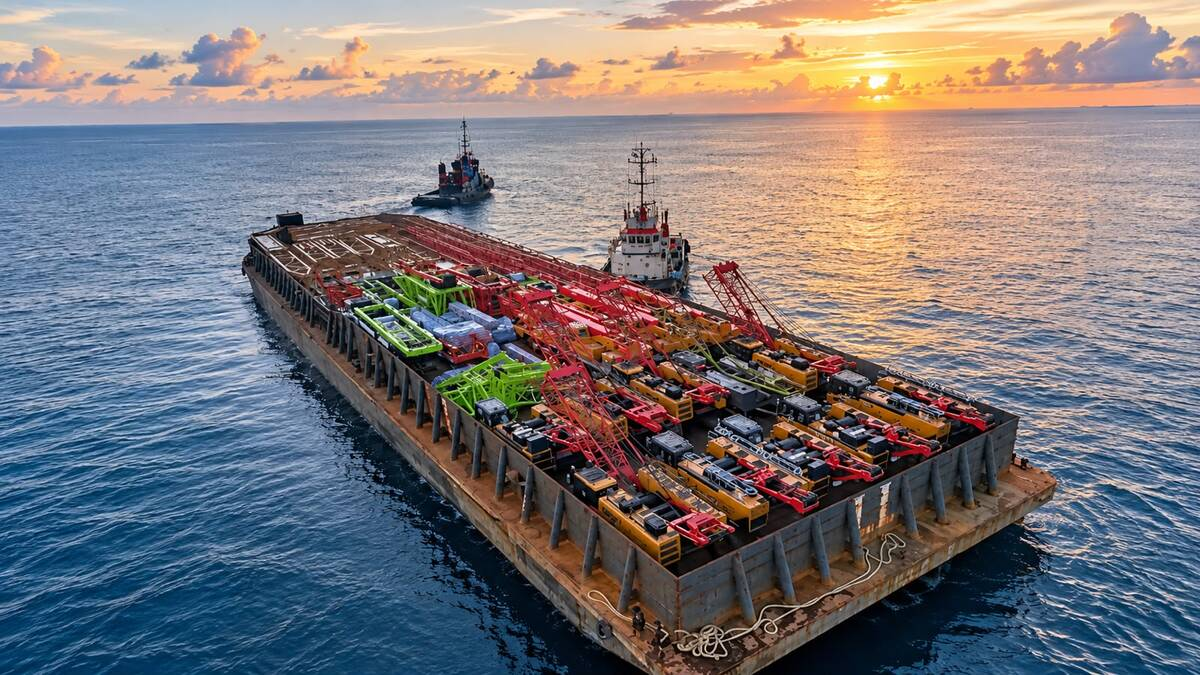
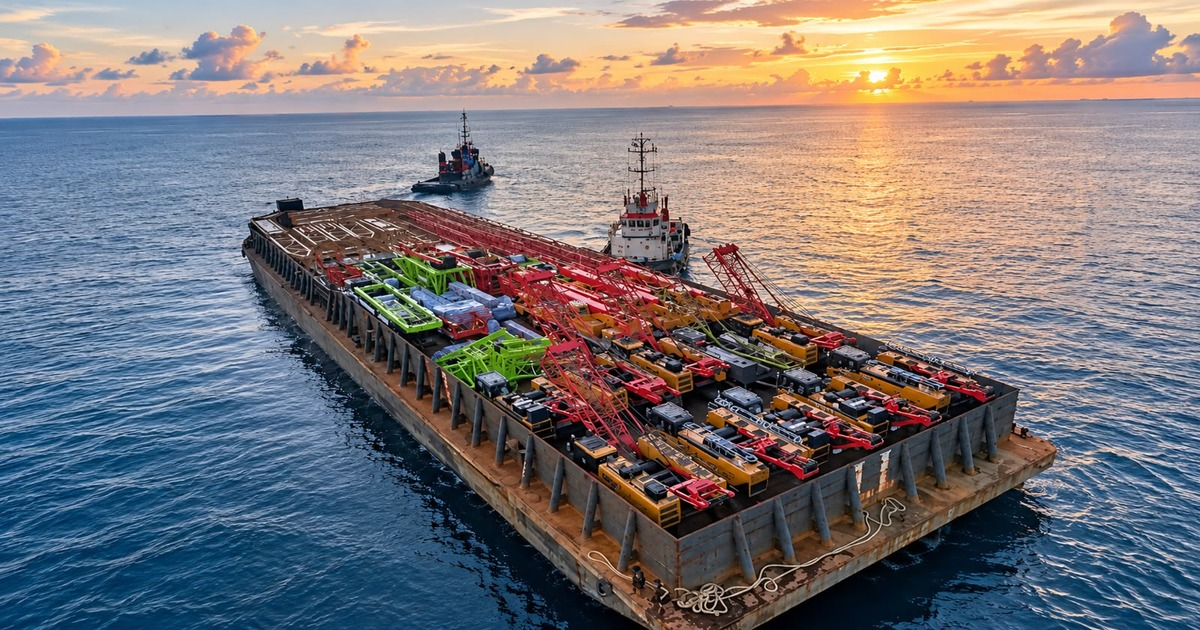
sebelum i18n routes

diff --git a/components/Hero.tsx b/components/Hero.tsx
@@ -10,53 +10,58 @@ export default function Hero({ image }: { image?: any }) {
     <section id="home" className="relative isolate flex min-h-screen min-h-[100svh] flex-col overflow-hidden">
       <video
         className="absolute inset-0 -z-20 h-full w-full object-cover motion-reduce:hidden"
-        autoPlay muted loop playsInline preload="metadata" poster="/images/hero.jpg" aria-hidden="true"
+        autoPlay muted loop playsInline preload="auto" poster="/images/hero.jpg" aria-hidden="true"
       >
-        <source src="/videos/hero-bg.webm" type="video/webm" />
         <source src="/videos/hero-bg.mp4" type="video/mp4" />
+        <source src="/videos/hero-bg.webm" type="video/webm" />
       </video>
 
       <div
         className="absolute inset-0 -z-30 hidden bg-cover bg-center motion-reduce:block"
-        style={{ backgroundImage: "url(/images/hero.jpg)" }}
+        style={{ backgroundImage: "url(/images/hero.)" }}
       />
 
       {/* Satu lapisan saja: gelap di atas, memudar ke mist di dasar. Tidak ada sambungan = tidak ada garis */}
       <div
         className="absolute inset-0 -z-10"
         style={{
-background:
-  "linear-gradient(to bottom, rgba(0,0,0,0.9) 0%, rgba(2,6,23,0.6) 35%, rgba(2,6,23,0.4) 62%, rgba(239,244,251,0) 70%, #eff4fb 100%)",        }}
+          background:
+            "linear-gradient(to bottom, rgba(2,6,23,0) 0%, rgba(2,6,23,0.1) 25%, rgba(2,6,23,0.4) 45%, rgba(2,6,23,0.45) 62%, rgba(239,244,251,0) 70%, #eff4fb 100%)",
+        }}
       />
-
       {/* Transisi halus: menempel di dasar video yang menjorok */}
       <div className="pointer-events-none absolute inset-x-0 -bottom-32 z-0 h-56 bg-gradient-to-b from-transparent to-mist md:-bottom-32 md:h-72" />
 
       {/* Logo: pojok kanan atas hero (hanya desktop) */}
       <img
-        src="/images/logo.png"
+        src="/images/logo.webp"
         alt="LBA"
         className="absolute right-8 top-24 z-10 hidden h-24 w-auto md:block xl:right-12 xl:h-28"
       />
 
         <div className="relative mx-auto flex w-full max-w-6xl flex-1 flex-col px-5 pb-32 pt-24 md:pb-40 md:pt-28">
-          <div className="max-w-2xl text-left text-white [text-shadow:0_2px_12px_rgba(0,0,0,0.55)] md:my-auto">
-            <div className="flex flex-col items-start gap-4 md:block">
-              {/* Logo HP: di atas, kanan */}
-              <img
-                src="/images/logo.png"
-                alt="LBA"
-                className="ml-auto h-20 w-auto rounded-xl p-2 md:hidden"
-              />
-              {/* Badge di bawah logo */}
-              <span className="rounded-full bg-white px-3 py-1 text-[10px] font-semibold text-slate-900 [text-shadow:none]">
-                {t.hero.est}
-              </span>
+          <div className="max-w-3xl text-left text-white [text-shadow:0_2px_12px_rgba(0,0,0,0.55)] md:my-auto">
+              <div className="flex flex-col items-start gap-4 md:block">
+                {/* Logo HP: di atas, kanan */}
+                <img
+                  src="/images/logo.webp"
+                  alt="LBA"
+                  className="ml-auto h-20 w-auto rounded-xl p-2 md:hidden"
+                />
+              </div>
+
+              <h1 className="mt-6 font-head text-5xl font-bold leading-[1.1] text-white md:text-6xl">
+                {t.hero.title}
+              </h1>
+
+              <p className="mt-3 text-xl font-medium text-slate-100 md:text-2xl">
+                {t.hero.body}
+              </p>
+
+              <p className="mt-4 max-w-2xl text-base leading-relaxed text-slate-100 md:text-lg">
+                {t.hero.sub}
+              </p>
             </div>
-          <h1 className="mt-6 font-head text-5xl font-bold leading-[1.1] text-white">{t.hero.title}</h1>
-          <p className="mt-3 text-lg font-medium text-slate-100">{t.hero.body}</p>
-          <p className="mt-4 text-sm leading-relaxed text-slate-100">{t.hero.sub}</p>
-        </div>
 
         {/* Bawah: statistik rata tengah */}
 {(() => {

diff --git a/components/ServiceDetail.tsx b/components/ServiceDetail.tsx
@@ -37,7 +37,7 @@ export default function ServiceDetail({
 
   // Kumpulin SEMUA teks yang perlu ditranslate jadi satu list, sekali jalan
   const allTexts = useMemo(() => {
-    const list: string[] = [s.heroTitle, s.heroTagline, s.heroDescription];
+    const list: string[] = [s.heroTitle, s.heroTagline, s.heroDescription, s.navTitle];
     if (s.whatWeHandleTitle) list.push(s.whatWeHandleTitle);
     s.whatWeHandleGroups?.forEach((g) => {
       if (g.heading) list.push(g.heading);
@@ -111,11 +111,24 @@ export default function ServiceDetail({
           );
         })()}
         <div className="absolute inset-0 bg-black/60" />
-        <div className="relative mx-auto max-w-4xl px-5 py-24 text-center text-white">
-          <p className="text-xs font-semibold uppercase tracking-wide text-sky-300">{t.services.tag}</p>
-          <h1 className="mt-2 font-head text-4xl font-bold text-white md:text-5xl">{x(s.heroTitle)}</h1>
+       <div className="relative mx-auto max-w-4xl px-5 pb-20 pt-20 text-center text-white">
+          {/* Breadcrumb */}
+          <nav aria-label="Breadcrumb" className="mb-6 flex justify-center">
+            <ol className="inline-flex flex-wrap items-center justify-center gap-1.5 px-4 py-2 text-xs text-white/80 [text-shadow:0_1px_8px_rgba(0,0,0,0.6)]">              <li>
+                <Link href="/" className="transition hover:text-white">{t.nav.home}</Link>
+              </li>
+              <li aria-hidden="true" className="text-white/40">›</li>
+              <li>
+                <Link href="/#services" className="transition hover:text-white">{t.services.tag}</Link>
+              </li>
+              <li aria-hidden="true" className="text-white/40">›</li>
+              <li aria-current="page" className="font-semibold text-white">{x(s.navTitle)}</li>
+            </ol>
+          </nav>
+
+          <h1 className="font-head text-4xl font-bold text-white md:text-5xl">{x(s.heroTitle)}</h1>
           <p className="mt-3 text-lg text-slate-200">{x(s.heroTagline)}</p>
-          <p className="mx-auto mt-5 max-w-2xl text-sm leading-7 text-slate-300">{x(s.heroDescription)}</p>
+          <p className="mt-5 max-w-2xl mx-auto text-sm leading-7 text-slate-300">{x(s.heroDescription)}</p>
         </div>
       </section>
 

diff --git a/app/services/[slug]/page.tsx b/app/services/[slug]/page.tsx
@@ -3,10 +3,12 @@ import { notFound } from "next/navigation";
 import Navbar from "@/components/Navbar";
 import Footer from "@/components/Footer";
 import ServiceDetail from "@/components/ServiceDetail";
-import { services, getService } from "@/lib/serviceContent";
+import { getService } from "@/lib/serviceContent";
 import { getServiceImages, getServiceHeroImages } from "@/lib/queries";
 
 export const dynamic = "force-dynamic";
+
+const SITE_URL = "https://www.lbalogistics.id"; // samakan persis dengan SITE_URL di layout.tsx
 
 // BARU: judul dan deskripsi tiap halaman layanan
 export async function generateMetadata({ params }: { params: { slug: string } }): Promise<Metadata> {
@@ -21,8 +23,21 @@ export default async function ServicePage({ params }: { params: { slug: string }
   const images = await getServiceImages();
   const heroImages = await getServiceHeroImages();
 
+  const breadcrumbJsonLd = {
+    "@context": "https://schema.org",
+    "@type": "BreadcrumbList",
+    itemListElement: [
+      { "@type": "ListItem", position: 1, name: "Home", item: `${SITE_URL}/` },
+      { "@type": "ListItem", position: 2, name: s.navTitle, item: `${SITE_URL}/services/${s.slug}` },
+    ],
+  };
+
   return (
     <>
+      <script
+        type="application/ld+json"
+        dangerouslySetInnerHTML={{ __html: JSON.stringify(breadcrumbJsonLd).replace(/</g, "\\u003c") }}
+      />
       <Navbar />
       <main>
         <ServiceDetail s={s} images={images} heroImages={heroImages} />

diff --git a/components/Navbar.tsx b/components/Navbar.tsx
@@ -44,8 +44,9 @@ export default function Navbar() {
     >   
         <div className="mx-auto flex h-16 max-w-6xl items-center justify-between px-5">
         <Link href="/" className="flex items-center gap-2">
-          <img src="/images/logo.png" alt="LBA" className="h-14 w-14 object-contain" />
-        <span className={`font-head text-sm font-bold leading-tight transition-colors duration-300 ${isHome && !scrolled ? "text-white" : "text-slate-900"}`}>PT LAUTAN BERLIAN ABADI</span>        </Link>
+          <img src="/images/logo.webp" alt="LBA" className="h-16 w-16 object-contain" />
+        <span className={`font-head text-m font-bold leading-tight transition-colors duration-300 ${isHome && !scrolled ? "text-white" : "text-slate-900"}`}>PT LAUTAN BERLIAN ABADI</span>
+        </Link>
         <nav className="hidden gap-7 text-sm md:flex">
           {links.map(([k, id]) => (
             <a key={k} href={hrefFor(id)} className={`transition-colors duration-300 ${isHome && !scrolled ? "text-white hover:text-sky-300" : "text-slate-600 hover:text-brand"}`}>{t.nav[k]}</a>          ))}

diff --git a/app/layout.tsx b/app/layout.tsx
@@ -11,7 +11,7 @@ const inter = Inter({ subsets: ["latin"], variable: "--font-inter" });
 const jakarta = Plus_Jakarta_Sans({ subsets: ["latin"], variable: "--font-jakarta" });
 const librebaskerville = Libre_Baskerville({ subsets: ["latin"], weight: ["400"], variable: "--font-libre-baskerville" });
 
-const SITE_URL = "https://www.NAMADOMAIN.com"; // ganti dengan domain asli (cukup di sini)
+const SITE_URL = "https://www.lbalogistics.id"; // ganti dengan domain asli (cukup di sini)
 const PHONE = "+6281219769494"; // samakan dengan nomor di bagian Contact
 
 export const metadata: Metadata = {
@@ -45,7 +45,7 @@ export default async function RootLayout({ children }: { children: React.ReactNo
     "@type": "Organization",
     name: "PT Lautan Berlian Abadi",
     url: SITE_URL,
-    logo: `${SITE_URL}/images/logo.png`,
+    logo: `${SITE_URL}/images/logo.webp`,
     foundingDate: "2015",
     telephone: PHONE,
     ...(jakartaOffice?.address && {

diff --git a/components/ProjectsGrid.tsx b/components/ProjectsGrid.tsx
@@ -34,7 +34,7 @@ export default function ProjectsGrid({ projects }: { projects: any[] }) {
           {/* Logo: absolute, tidak menambah tinggi baris tombol */}
           {/* eslint-disable-next-line @next/next/no-img-element */}
           <img
-            src="/images/logo.png"
+            src="/images/logo.webp"
             alt="Logo PT Lautan Berlian Abadi"
             className="pointer-events-none absolute right-0 top-1/2 h-16 w-auto -translate-y-1/2 object-contain md:h-20"
           />

diff --git a/components/About.tsx b/components/About.tsx
@@ -55,7 +55,7 @@ const VALUE_ICONS = [IconIntegrity, IconTrust, IconRespect];
 
 function IconBadge({ children }: { children: React.ReactNode }) {
   return (
-    <span className="flex h-12 w-12 shrink-0 items-center justify-center rounded-xl bg-white text-[#232448]">      {children}
+    <span className="flex h-12 w-12 shrink-0 items-center justify-center rounded-xl bg-white/60 text-[#232448]">      {children}
     </span>
   );
 }

diff --git a/components/Footer.tsx b/components/Footer.tsx
@@ -55,7 +55,7 @@ export default function Footer({ services }: { services?: any[] }) {
           {/* KOLOM 1 — COMPANY */}
           <div>
             <img
-              src="/images/logo.png"
+              src="/images/logo.webp"
               alt="LBA"
               className="h-21 w-21 object-contain"
             />

diff --git a/app/robots.ts b/app/robots.ts
@@ -3,6 +3,6 @@ import type { MetadataRoute } from "next";
 export default function robots(): MetadataRoute.Robots {
   return {
     rules: { userAgent: "*", allow: "/", disallow: ["/studio", "/api"] },
-    sitemap: "https://www.NAMADOMAIN.com/sitemap.xml",
+    sitemap: "https://www.lbalogistics.id/sitemap.xml",
   };
 }

diff --git a/app/sitemap.ts b/app/sitemap.ts
@@ -1,7 +1,7 @@
 import type { MetadataRoute } from "next";
 import { services } from "@/lib/serviceContent";
 
-const base = "https://www.NAMADOMAIN.com";
+const base = "https://www.lbalogistics.id";
 
 export default function sitemap(): MetadataRoute.Sitemap {
   return [
